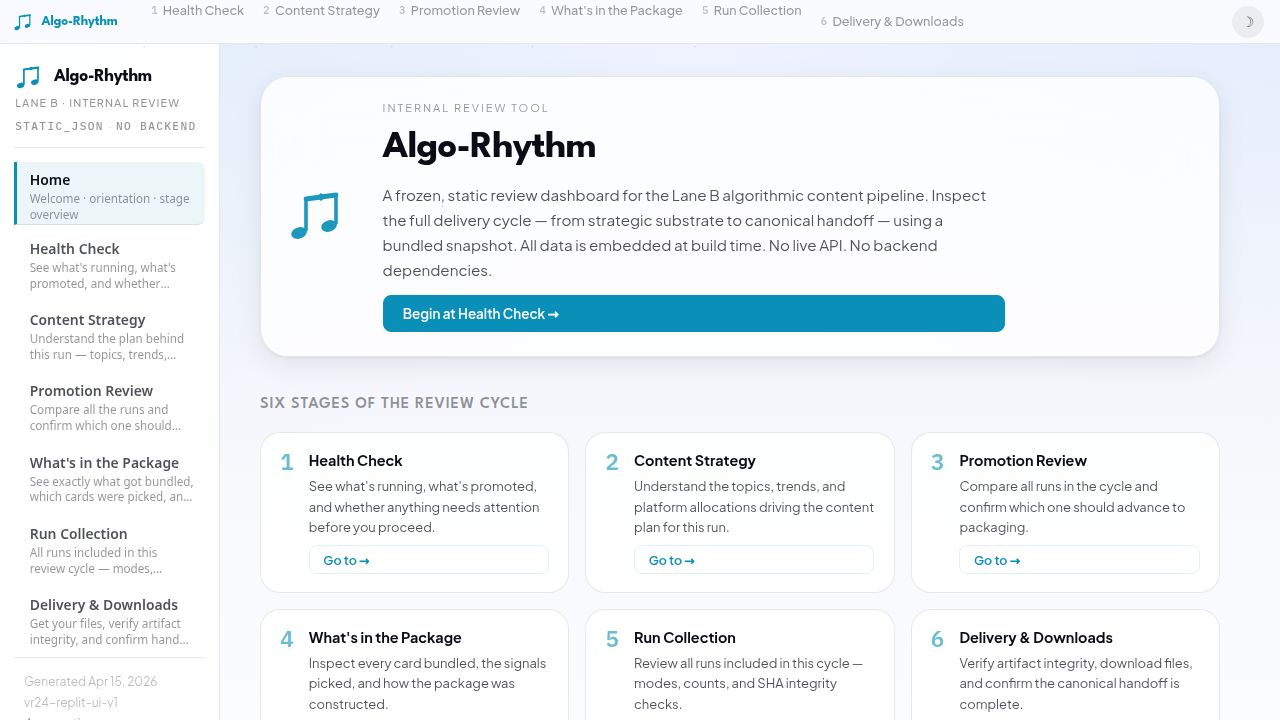
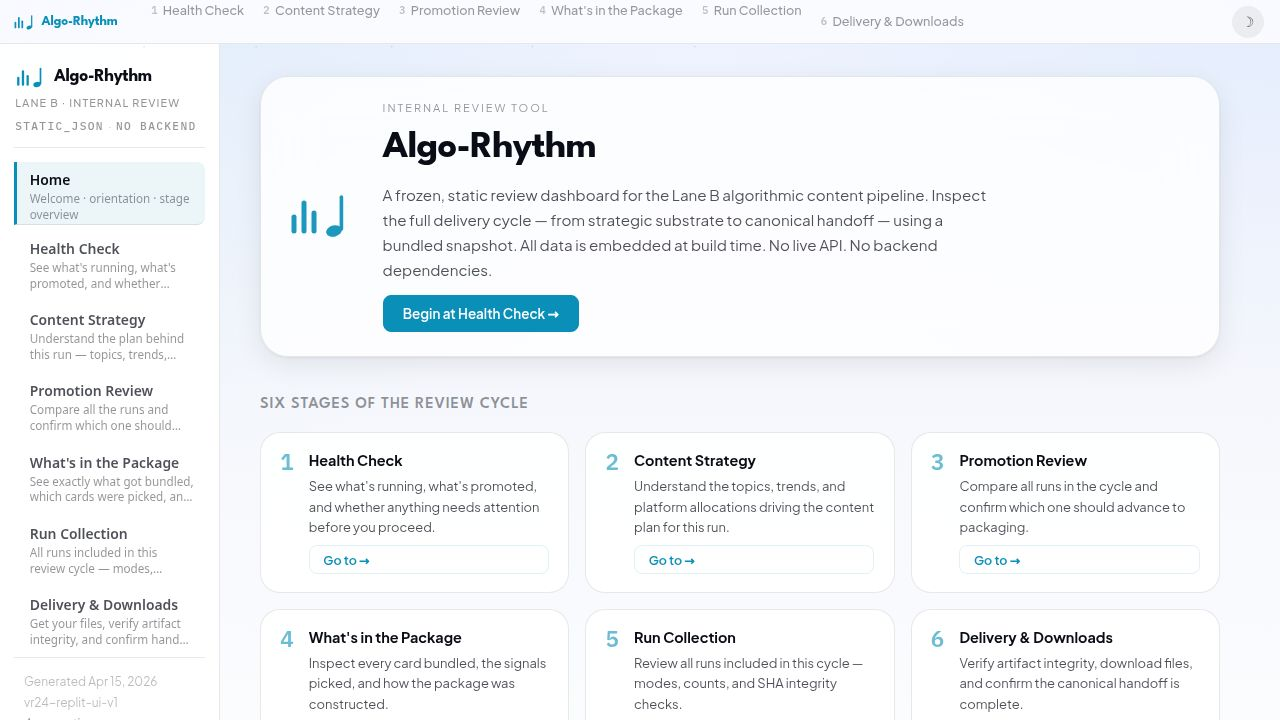
Add copy buttons for all hash values and style download links
Introduce a CopyButton component and ShaField component for displaying and copying hash values, and update CSS for styled download buttons and new components.

Replit-Commit-Author: Agent
Replit-Commit-Session-Id: b323c0be-881e-4339-971a-d70aa91f1d39
Replit-Commit-Checkpoint-Type: full_checkpoint
Replit-Commit-Event-Id: 2e9864f1-cfaf-4191-8173-f533927c7cf6
Replit-Commit-Screenshot-Url: https://storage.googleapis.com/screenshot-production-us-central1/92fab857-9816-4e92-8b6c-8d3e103e5675/b323c0be-881e-4339-971a-d70aa91f1d39/RG2wLa2
Replit-Helium-Checkpoint-Created: true

diff --git a/artifacts/strategy-dashboard/src/index.css b/artifacts/strategy-dashboard/src/index.css
@@ -293,10 +293,13 @@ html[data-theme="light"] .theme-toggle:hover {
 
 html[data-theme="light"] .btn-download {
   color: var(--accent);
+  border-color: var(--accent);
+  background: rgba(10, 143, 184, 0.07);
 }
 
 html[data-theme="light"] .btn-download:hover {
-  color: #0a0d16;
+  background: rgba(10, 143, 184, 0.14);
+  color: var(--accent);
 }
 
 html[data-theme="light"] .sidebar-overlay {
@@ -1507,29 +1510,92 @@ html[data-theme="light"] .score-dim__bar {
 }
 
 /* ============================================================
-   DOWNLOAD LINKS — clean text, no pill chrome
+   DOWNLOAD BUTTON & ACTIONABLE CELLS
    ============================================================ */
 
 .btn-download {
   display: inline-flex;
   align-items: center;
-  gap: 0.28rem;
-  background: none;
-  border: none;
-  padding: 0;
-  cursor: pointer;
+  gap: 0.35rem;
+  padding: 0.38rem 0.85rem;
+  border: 1px solid var(--accent);
+  border-radius: var(--radius-sm);
+  background: var(--accent-wash);
   color: var(--accent);
-  font-family: var(--font-mono);
-  font-size: 0.83rem;
+  font-family: var(--font-ui);
+  font-size: 0.78rem;
+  font-weight: 500;
+  letter-spacing: 0.01em;
   text-decoration: none;
-  transition: color 110ms ease;
+  cursor: pointer;
+  transition: background 140ms ease, box-shadow 140ms ease;
   white-space: nowrap;
 }
 
 .btn-download:hover {
-  color: #fff;
-  text-decoration: underline;
-  text-underline-offset: 3px;
+  background: var(--accent-soft);
+  box-shadow: 0 0 0 1px var(--accent);
+  text-decoration: none;
+  color: var(--accent);
+}
+
+.btn-not-bundled {
+  color: var(--text-muted);
+  font-size: 0.78rem;
+  font-style: italic;
+  cursor: default;
+}
+
+/* ============================================================
+   COPY BUTTON & SHA FIELD
+   ============================================================ */
+
+.copy-btn {
+  display: inline-flex;
+  align-items: center;
+  padding: 0.12rem 0.42rem;
+  border: 1px solid var(--line-mid);
+  border-radius: var(--radius-sm);
+  background: transparent;
+  color: var(--text-muted);
+  font-size: 0.66rem;
+  font-family: var(--font-ui);
+  letter-spacing: 0.05em;
+  text-transform: uppercase;
+  cursor: pointer;
+  transition: color 140ms ease, border-color 140ms ease, background 140ms ease;
+  vertical-align: middle;
+  flex-shrink: 0;
+  line-height: 1.4;
+}
+
+.copy-btn:hover {
+  color: var(--accent);
+  border-color: var(--accent);
+  background: var(--accent-wash);
+}
+
+.copy-btn--copied {
+  color: var(--score-good);
+  border-color: var(--score-good);
+  cursor: default;
+}
+
+.sha-field {
+  display: inline-flex;
+  align-items: baseline;
+  gap: 0.45rem;
+  flex-wrap: wrap;
+  min-width: 0;
+}
+
+.sha-field__hash {
+  flex-shrink: 1;
+  min-width: 0;
+}
+
+.sha-field__note {
+  flex-basis: 100%;
 }
 
 /* ============================================================

diff --git a/artifacts/strategy-dashboard/src/App.tsx b/artifacts/strategy-dashboard/src/App.tsx
@@ -201,6 +201,40 @@ function EmptyState({ title, detail }) {
   );
 }
 
+function CopyButton({ value }) {
+  const [copied, setCopied] = useState(false);
+  if (!value || value === 'Unavailable') return null;
+  const canCopy = typeof navigator !== 'undefined' && typeof navigator?.clipboard?.writeText === 'function';
+  if (!canCopy) return null;
+  function handleCopy() {
+    navigator.clipboard.writeText(value).then(() => {
+      setCopied(true);
+      setTimeout(() => setCopied(false), 1500);
+    }).catch(() => {});
+  }
+  return (
+    <button
+      type="button"
+      className={`copy-btn${copied ? ' copy-btn--copied' : ''}`}
+      onClick={handleCopy}
+      title={copied ? 'Copied!' : 'Copy to clipboard'}
+    >
+      {copied ? '✓' : 'copy'}
+    </button>
+  );
+}
+
+function ShaField({ hash, note }) {
+  if (!hash || hash === 'Unavailable') return <span className="muted">Unavailable</span>;
+  return (
+    <span className="sha-field">
+      <code className="sha-field__hash">{hash}</code>
+      <CopyButton value={hash} />
+      {note ? <p className="muted sha-field__note">{note}</p> : null}
+    </span>
+  );
+}
+
 function ErrorPanel({ title, detail, items = [] }) {
   return (
     <section className="panel error-panel">
@@ -483,8 +517,8 @@ function OverviewPage({ index, datasets }) {
           rows={[
             { label: 'Run ID', value: latestPackage?.run_id || 'Unavailable' },
             { label: 'Package ID', value: latestPackage?.package_id || 'Unavailable' },
-            { label: 'Manifest SHA', value: latestPackage?.package_manifest_sha256 || 'Unavailable' },
-            { label: 'Package SHA', value: latestPackage?.package_zip_sha256 || 'Unavailable' },
+            { label: 'Manifest SHA', value: <ShaField hash={latestPackage?.package_manifest_sha256} /> },
+            { label: 'Package SHA', value: <ShaField hash={latestPackage?.package_zip_sha256} /> },
           ]}
         />
       </section>
@@ -496,7 +530,7 @@ function OverviewPage({ index, datasets }) {
             { label: 'Batch ID', value: latestBatch?.batch_id || 'Unavailable' },
             { label: 'Review ID', value: latestBatch?.review_id || 'Unavailable' },
             { label: 'Included runs', value: (latestBatch?.included_run_ids || []).join(', ') || 'Unavailable' },
-            { label: 'Batch ZIP SHA', value: latestBatch?.batch_zip_sha256 || 'Unavailable' },
+            { label: 'Batch ZIP SHA', value: <ShaField hash={latestBatch?.batch_zip_sha256} /> },
           ]}
         />
       </section>
@@ -823,7 +857,7 @@ function PackagePage({ datasets }) {
               { label: 'Run ID', value: latestPackage.run_id },
               { label: 'Package ID', value: latestPackage.package_id },
               { label: 'Review ID', value: latestPackage.review_id },
-              { label: 'Package SHA', value: latestPackage.package_zip_sha256 },
+              { label: 'Package SHA', value: <ShaField hash={latestPackage.package_zip_sha256} /> },
             ]}
           />
         ) : (
@@ -838,8 +872,8 @@ function PackagePage({ datasets }) {
             rows={[
               { label: 'Package mode', value: manifest.package_mode },
               { label: 'Selected cards', value: manifest.selected_cards?.selected_card_count || 'Unavailable' },
-              { label: 'Run manifest SHA', value: manifest.run?.run_manifest_sha256 || 'Unavailable' },
-              { label: 'Package ZIP SHA', value: manifest.package_zip?.sha256 || 'Unavailable' },
+              { label: 'Run manifest SHA', value: <ShaField hash={manifest.run?.run_manifest_sha256} /> },
+              { label: 'Package ZIP SHA', value: <ShaField hash={manifest.package_zip?.sha256} /> },
             ]}
           />
         ) : (
@@ -894,7 +928,7 @@ function BatchPage({ datasets }) {
               { label: 'Batch ID', value: latestBatch.batch_id },
               { label: 'Review ID', value: latestBatch.review_id },
               { label: 'Included runs', value: (latestBatch.included_run_ids || []).join(', ') || 'Unavailable' },
-              { label: 'Batch ZIP SHA', value: latestBatch.batch_zip_sha256 || 'Unavailable' },
+              { label: 'Batch ZIP SHA', value: <ShaField hash={latestBatch.batch_zip_sha256} /> },
             ]}
           />
         ) : (
@@ -909,7 +943,7 @@ function BatchPage({ datasets }) {
             rows={[
               { label: 'Run package count', value: batchManifest.run_package_count },
               { label: 'Review path', value: batchManifest.review_path },
-              { label: 'Batch manifest SHA', value: batchManifest.batch_zip?.sha256 || 'Unavailable' },
+              { label: 'Batch manifest SHA', value: <ShaField hash={batchManifest.batch_zip?.sha256} /> },
               { label: 'Generated at', value: formatDate(batchManifest.generated_at) },
             ]}
           />
@@ -937,7 +971,7 @@ function BatchPage({ datasets }) {
                     <td>{item.run_id}</td>
                     <td>{item.package_mode}</td>
                     <td>{item.selected_card_count}</td>
-                    <td>{item.package_zip?.sha256 || 'Unavailable'}</td>
+                    <td><ShaField hash={item.package_zip?.sha256} /></td>
                   </tr>
                 ))}
               </tbody>
@@ -977,17 +1011,16 @@ function HandoffPage({ index }) {
                 <tr key={item.id}>
                   <td>{item.label}</td>
                   <td>
-                    <code>{item.sha256 || 'Unavailable'}</code>
-                    {item.hash_note ? <p className="muted">{item.hash_note}</p> : null}
+                    <ShaField hash={item.sha256} note={item.hash_note} />
                   </td>
                   <td>{formatNumber(item.size_bytes)}</td>
                   <td>
                     {item.bundled && item.public_path ? (
                       <a href={`${base}${item.public_path}`} download={item.filename} className="btn-download">
-                        → {item.filename}
+                        ↓ Download
                       </a>
                     ) : (
-                      <span className="muted">Unavailable</span>
+                      <span className="btn-not-bundled" title={item.source_path || ''}>Not bundled</span>
                     )}
                   </td>
                 </tr>